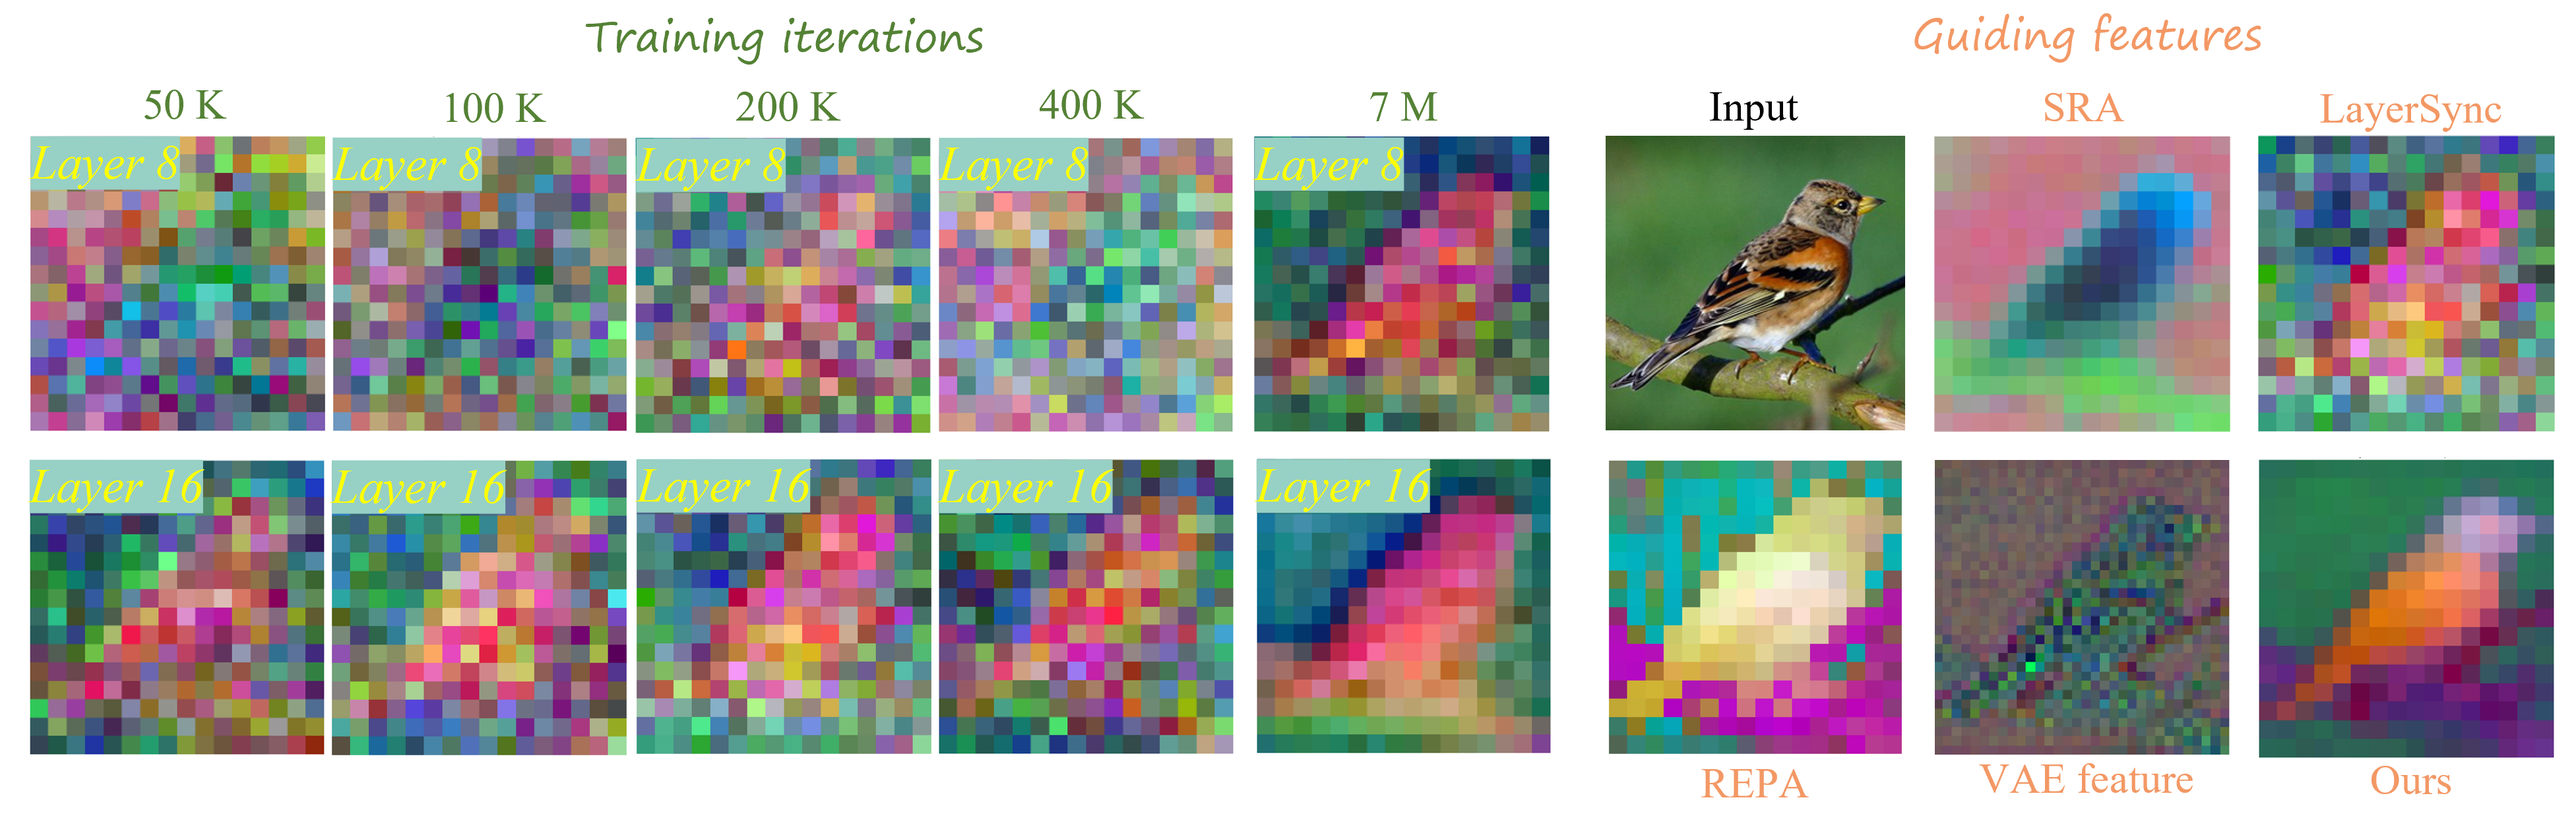
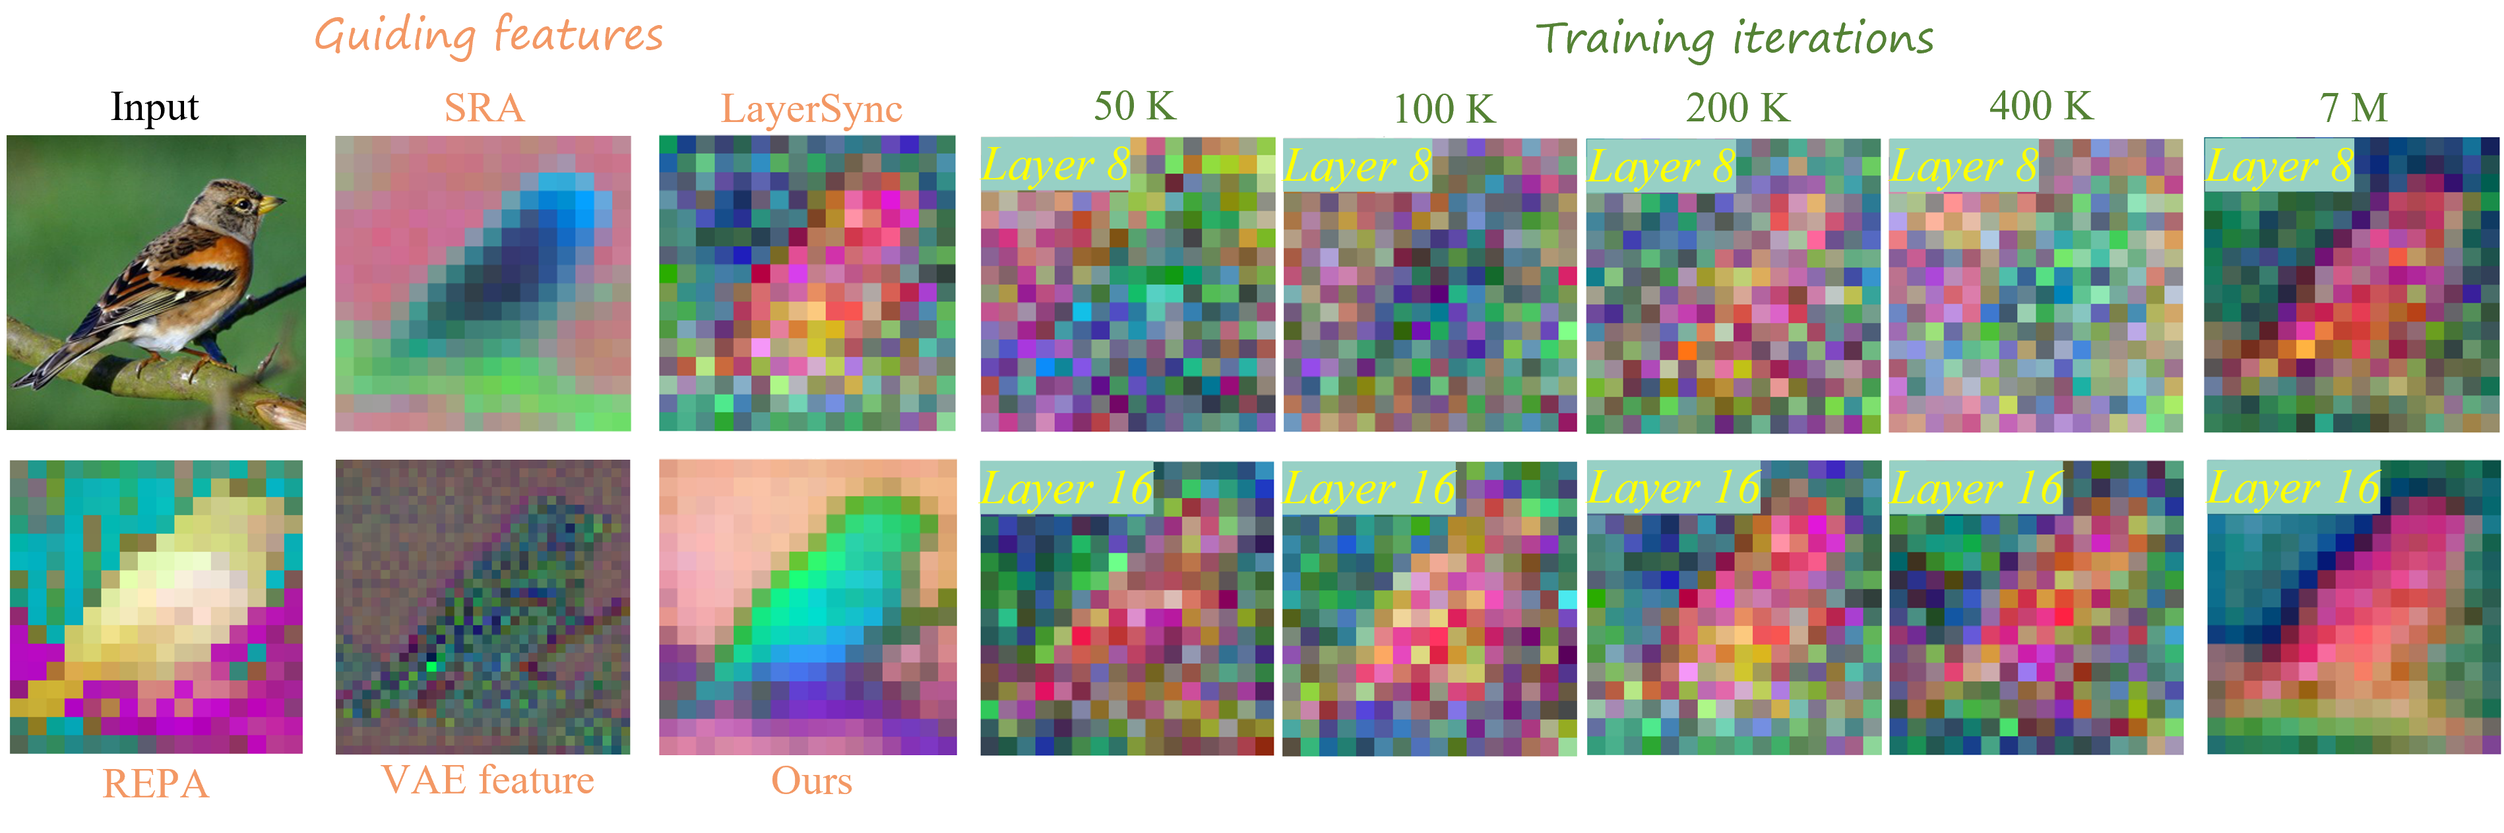
readme

diff --git a/README.md b/README.md
@@ -4,8 +4,8 @@
 <h2>Self-transcendence: <br>  Is External Feature Guidance Indispensable for Accelerating Diffusion Transformer Training?</h2>
 
 
-<a href='https://arxiv.org/pdf/2601.07773'><img src='https://img.shields.io/badge/Paper-Arxiv-red'></a>
-<a href='https://yjsunnn.github.io/Self-Transcendence-project/'><img src='https://img.shields.io/badge/Project-Page-Blue'></a>
+<a href='https://arxiv.org/pdf/2601.07773'><img src='https://img.shields.io/badge/Paper-Arxiv-red'></a> <img src='https://img.shields.io/badge/Project-Page-Blue'></a>
+<!-- <a href='https://yjsunnn.github.io/Self-Transcendence-project/'> --> 
 
 
 
@@ -26,13 +26,15 @@
 ## 🧡ྀི Summary
 Both shallower and deeper layers gradually learn more discriminative patterns over time, but the shallower layer progresses very slowly. This indicates that the slow convergence of DiT is mainly due to the difficulty in learning clean and semantically rich features in shallow layers.
 
-We answer this question: ***Can internal features be used as effective semantic guidance signals to guide the shallow layers' training?*** and introduce *Self-Transcendence*, a simple yet effective self-guided training strategy achieving REPA-level performance without any external feature supervision. Our proposed approach produces more discriminative and semantically richer features than pre-trained DINO used in [REPA](https://github.com/sihyun-yu/REPA). Our method significantly improves training efficiency and generation quality, *acheiving FID=1.25 at just 400 epochs*.
+We answer this question: **Is external feature
+guidance indispensable for accelerating diffusion transformer training?** and introduce *Self-Transcendence*, a simple yet effective self-guided training strategy surpassing the performance of REPA without any external feature supervision. Our proposed approach produces more discriminative and semantically richer features than pre-trained DINO used in [REPA](https://github.com/sihyun-yu/REPA). Our method significantly improves training efficiency and generation quality, *acheiving FID=1.25 at just 400 epochs*.
 
 
 ![Self-Transcendence](figs/intro.png)
 
 
 ## ⏰ Update
+- **2026.3.15**: Code and models are released.
 - **2026.1.12**: The paper and this repo are released.
 
 :star: If Self-Transcendence is helpful to your images or projects, please help star this repo. Thanks! :hugs:
@@ -49,18 +51,95 @@ We find that the most effective guiding features should meet **two criteria**:
 With these considerations, we propose a two-stage training framework.
 
 <div align="center">
-<img src="figs/framework.png" height="560px"/>
+<img src="figs/framework.png" height="260px"/>
 </div>
 (a) Firstly, we use clean VAE features as guidance to help the model distinguish useful information from noise in shallow layers. 
 
 (b) After a certain number of iterations, the model has learned more meaningful representations. We then freeze this model and use its representation as a fixed teacher. To enhance the semantic expression in the features, we build a self-guided representation that better aligns with the target conditions.
 
-<div align="center">
-<img src="figs/fid_plot.png" height="320px"/>
-</div>
+(c) VAE structure guidance accelerates SiT training, while leveraging this model for self-transcendence leads to further improvements.
 
-VAE-based alignment accelerates SiT training, while leveraging this model for self-transcendence leads to further improvements.
 
+## ⚙ Dependencies and Installation
+```shell
+## git clone this repository
+git clone https://github.com/csslc/Self-Transcendence.git
+cd Self-Transcendence
+
+
+# create an environment
+conda create -n Self-Transcendence python=3.9 -y
+conda activate Self-Transcendence
+pip install --upgrade pip
+pip install -r requirements.txt
+```
+
+## 🍭 Quick Inference
+#### Step 1: Download the pretrained models
+Download the Self-Transcendence model from [`obox(pwd: SelfTrans315)`](https://sbox.myoas.com/l/B1b213930e1088174).
+
+#### Step 3: Running testing command 
+```
+torchrun --nnodes=1 --nproc_per_node=8 --master-port=29510 generate.py \
+  --model SiT-XL/2 \
+  --ckpt pretrained_models/self-trans/sit_xl/2000000.pt \
+  --sample-dir test_results/self-trans/sit-xl \
+  --num-fid-samples 50000 \
+  --path-type=linear \
+  --encoder-depth=8 \
+  --projector-embed-dims=768 \
+  --per-proc-batch-size=64 \
+  --mode=sde \
+  --num-steps=250 \
+  --cfg-scale=1.9 \
+  --resolution=256 \
+  --guidance-high=0.65
+```
+
+## 🚋 Train 
+#### Step1: Prepare training data
+We provide experiments for ImageNet (C2I) and MSCoCo (T2I). You can place the data that you want and can specifiy it via --data-dir arguments in training scripts. Please refer to our [preprocessing](https://github.com/csslc/Self-Transcendence/tree/main/preprocessing) guide.
+
+#### Step2: Train Model
+1. Train the guiding model with the VAE stucture guidance loss:
+    ```shell
+    accelerate launch train_vaeloss.py \
+    --report-to="wandb" \
+    --allow-tf32 \
+    --mixed-precision="fp16" \
+    --seed=0 \
+    --path-type="linear" \
+    --prediction="v" \
+    --weighting="uniform" \
+    --model="SiT-B/2" \
+    --proj-coeff=0.5 \
+    --encoder-depth=2 \
+    --output-dir="exps/vaeloss" \
+    --t-range 0.4 0.7 \
+    --resolution 256 \
+    --exp-name="sit-b-256" \
+    --data-dir=".../data"
+    ```
+
+2. Train the model with the self-guided representation:
+  ```shell
+    accelerate launch train_vaeloss.py \
+    --report-to="wandb" \
+    --allow-tf32 \
+    --mixed-precision="fp16" \
+    --seed=0 \
+    --path-type="linear" \
+    --prediction="v" \
+    --weighting="uniform" \
+    --model="SiT-B/2" \
+    --proj-coeff=0.5 \
+    --encoder-depth=2 \
+    --output-dir="exps/vaeloss" \
+    --t-range 0.4 0.7 \
+    --resolution 256 \
+    --exp-name="sit-b-256" \
+    --data-dir=".../data"
+    ```
 
 ### Citations
 
